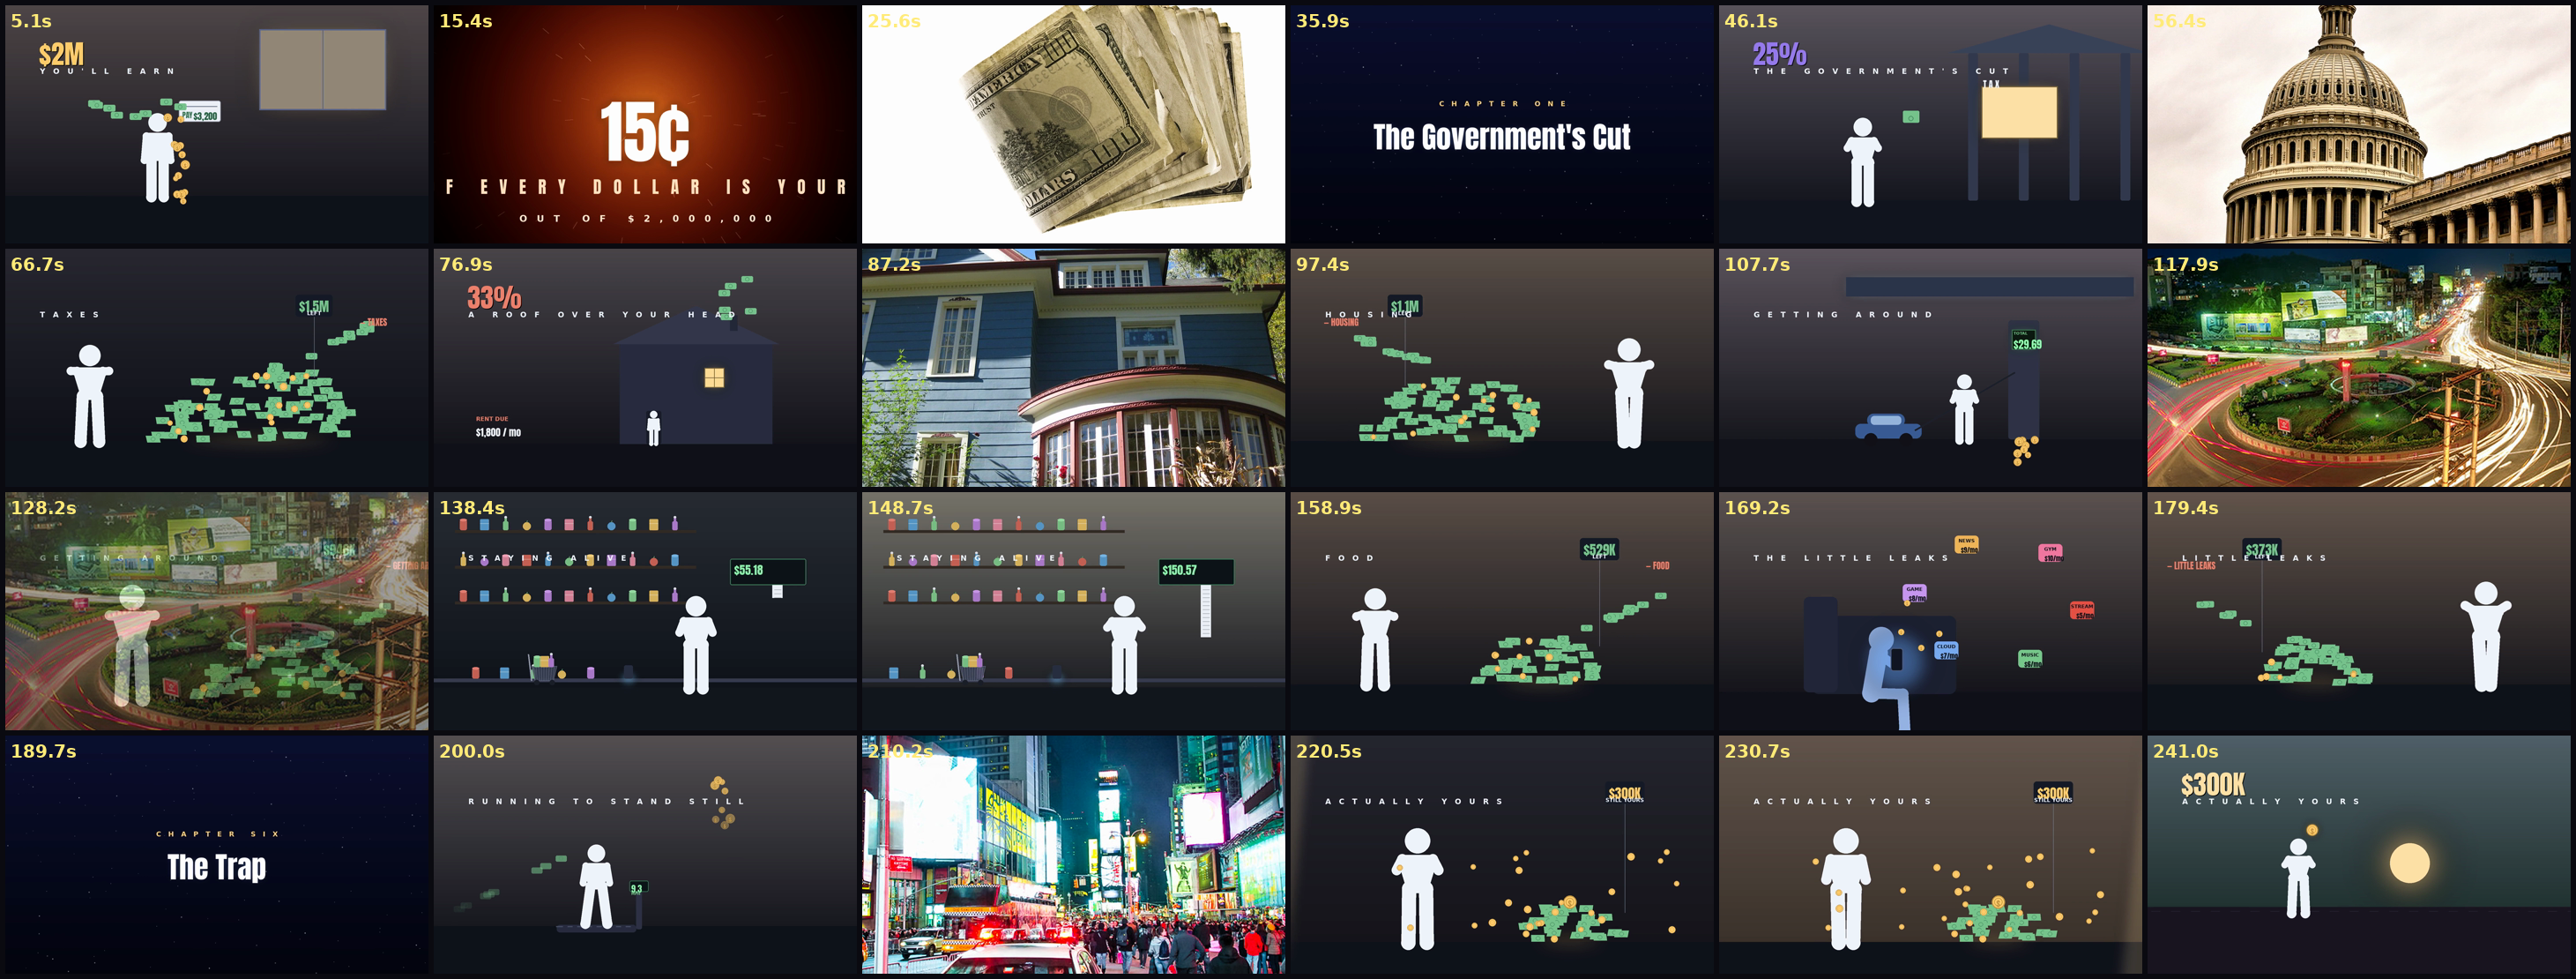
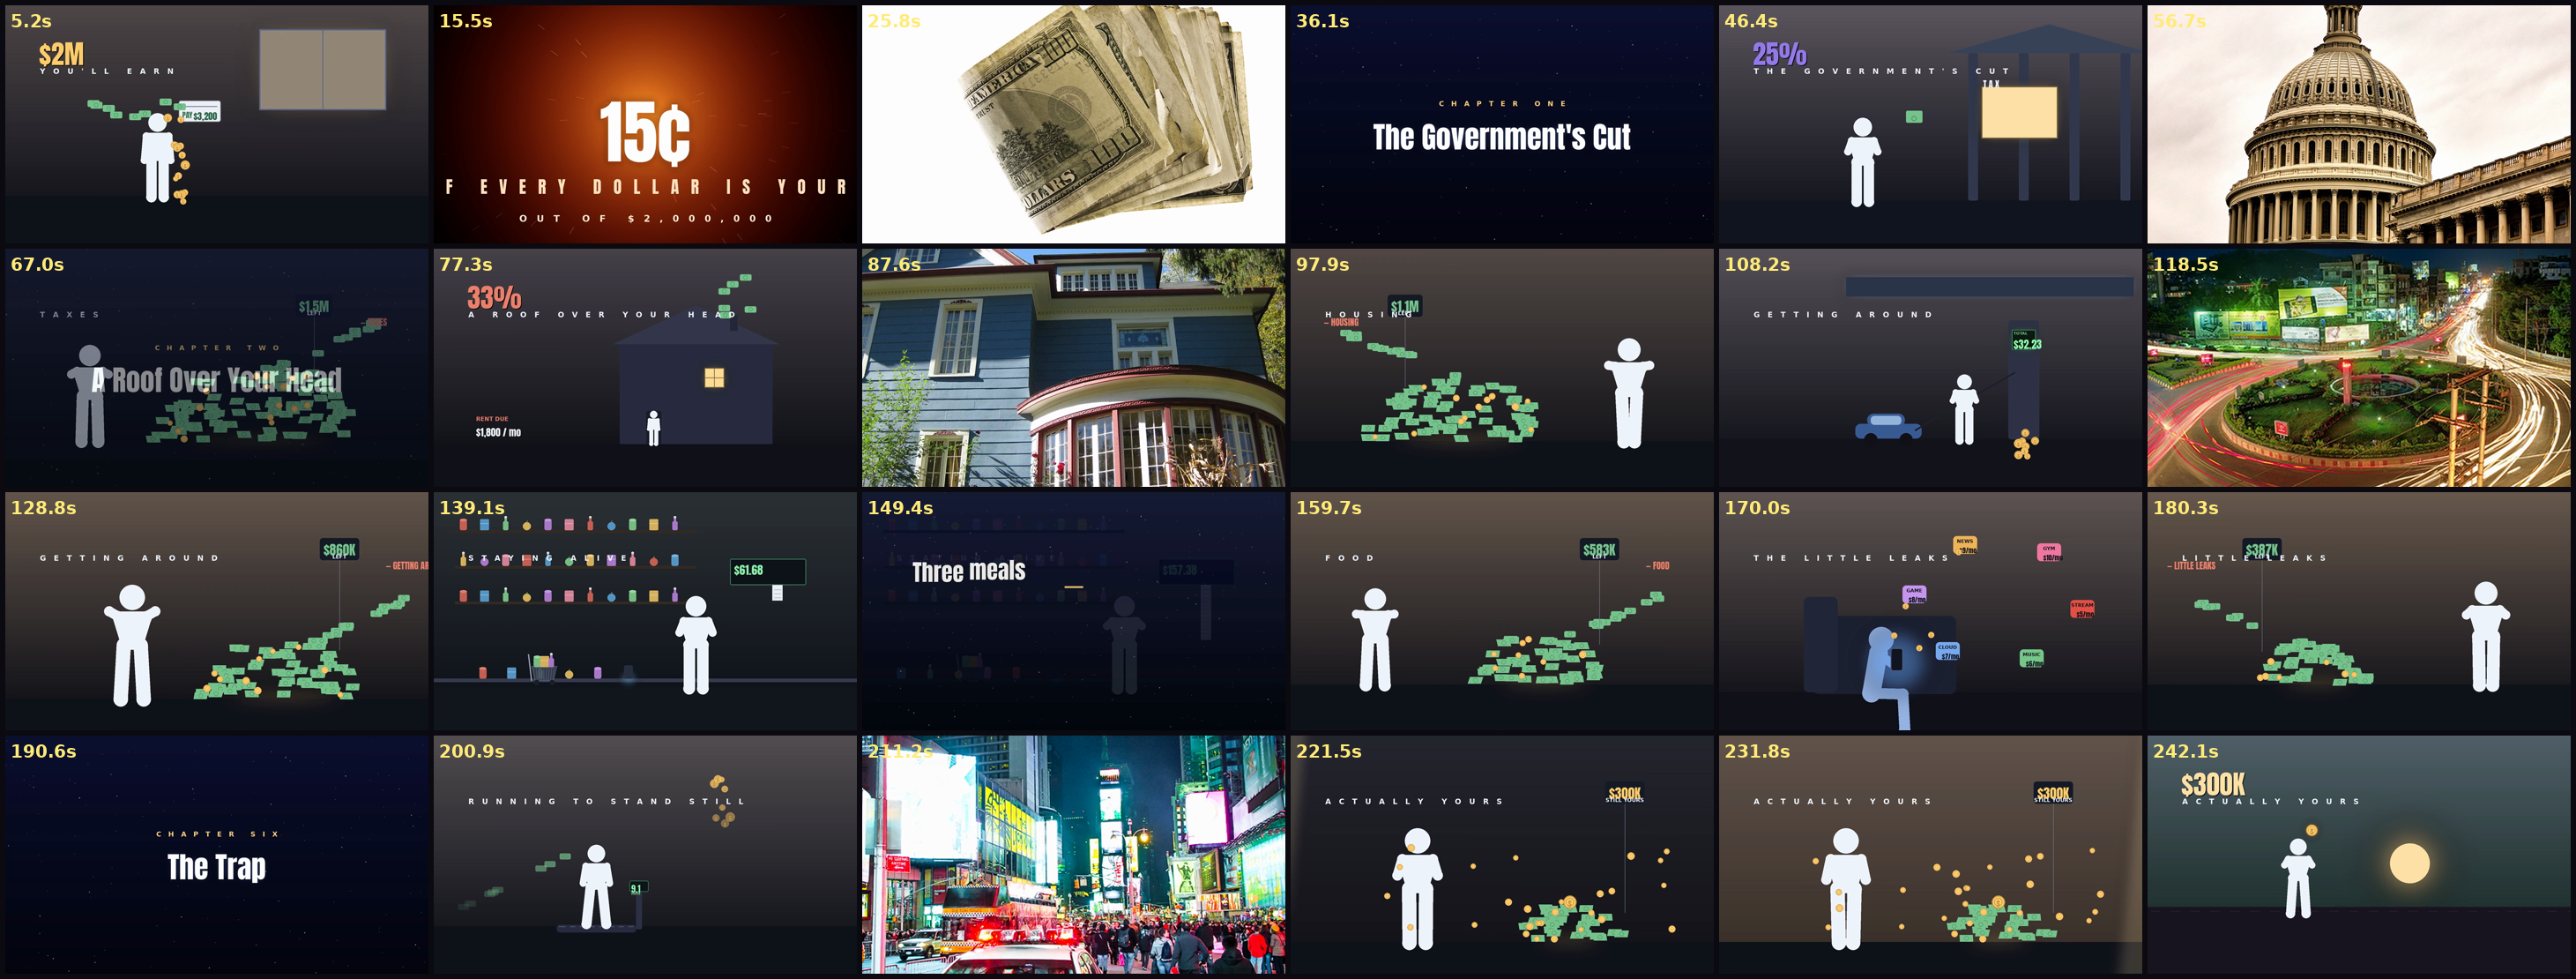
produce: reject stale verdicts (fail closed) + money-goes clean PASS render
Hardening: a re-render rebuilds the blind package but does NOT delete an old
verdict.json, so produce.evaluate could promote a NEW cut on the PREVIOUS cut's
taste judgment. evaluate now treats a verdict.json older than the mp4 as STALE
and fails closed (verified: the carried-over verdict is rejected).

money-goes now passes the full canonical path end-to-end:
  director CLEAN (0 stale/0 dull, cards 17%, hook 8/10, sync ok)
  -> blind taste PASS (personality 3/5, no reject labels, cards ~30%)
  -> provenance satisfied (7 facts[] sources) -> package complete -> PASS.
Publish layer verified: 8-chapter block + 7 cited sources + tags. The director
auto-repaired the duplicate grocery shot (escalated beat 17 to motion); beat 17's
food photo missed the keyless media gateway and honestly degraded to a card.

Claude-Session: https://claude.ai/code/session_01EcRpPEdAhMbmvWAGzutHMf

diff --git a/scripts/produce.py b/scripts/produce.py
@@ -98,7 +98,17 @@ def evaluate(out: Path, director_rc: int, story: dict | None = None) -> dict:
             reasons.append(f"missing publishing sidecar: {why}")
 
     verdict = _read_json(pkg / "verdict.json")
-    if verdict is None:
+    # A verdict is only valid for the render it judged. A re-render rebuilds the
+    # blind package but does not delete an old verdict, so a verdict that predates
+    # the current mp4 is STALE — treat it as absent and fail closed, or we would
+    # promote a new cut on last cut's judgment.
+    vpath = pkg / "verdict.json"
+    if verdict is not None and out.exists() and \
+            vpath.stat().st_mtime < out.stat().st_mtime:
+        reasons.append("stale vision verdict (pkg/verdict.json predates this "
+                       "render) — FAILS CLOSED; re-judge the current blind package")
+        verdict = None
+    elif verdict is None:
         reasons.append("no vision taste verdict (pkg/verdict.json) — FAILS CLOSED; "
                        "judge the blind package before publishing")
     elif not verdict.get("pass"):